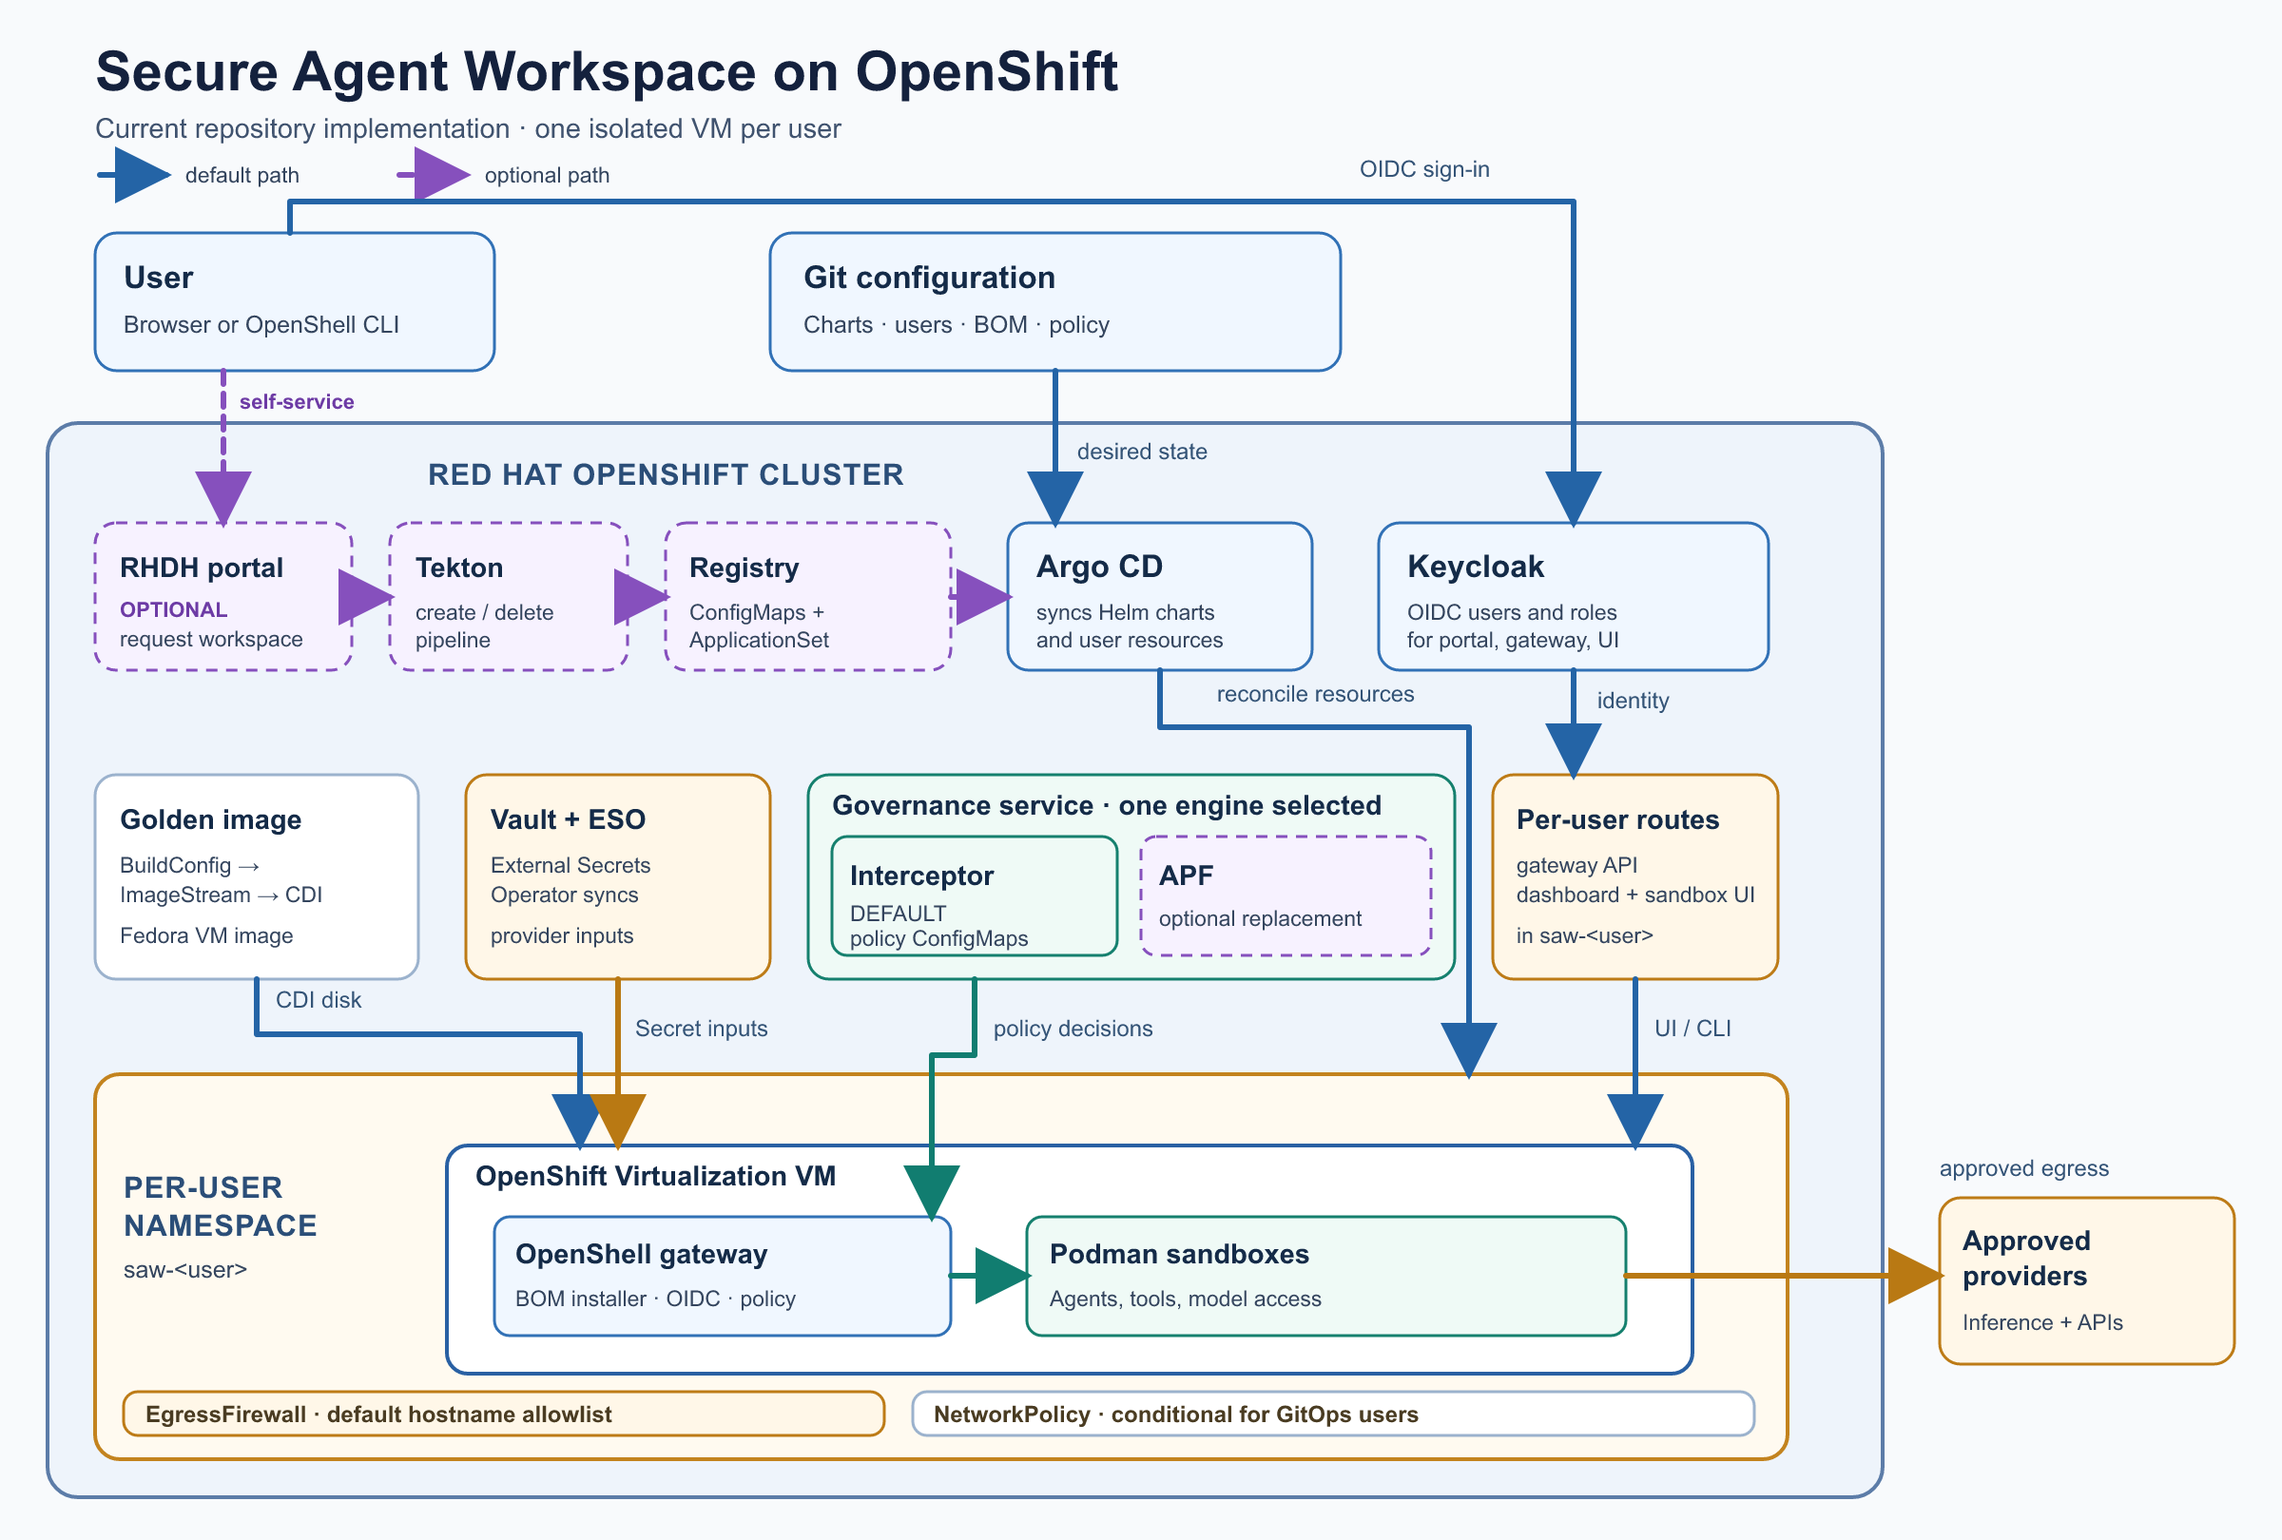
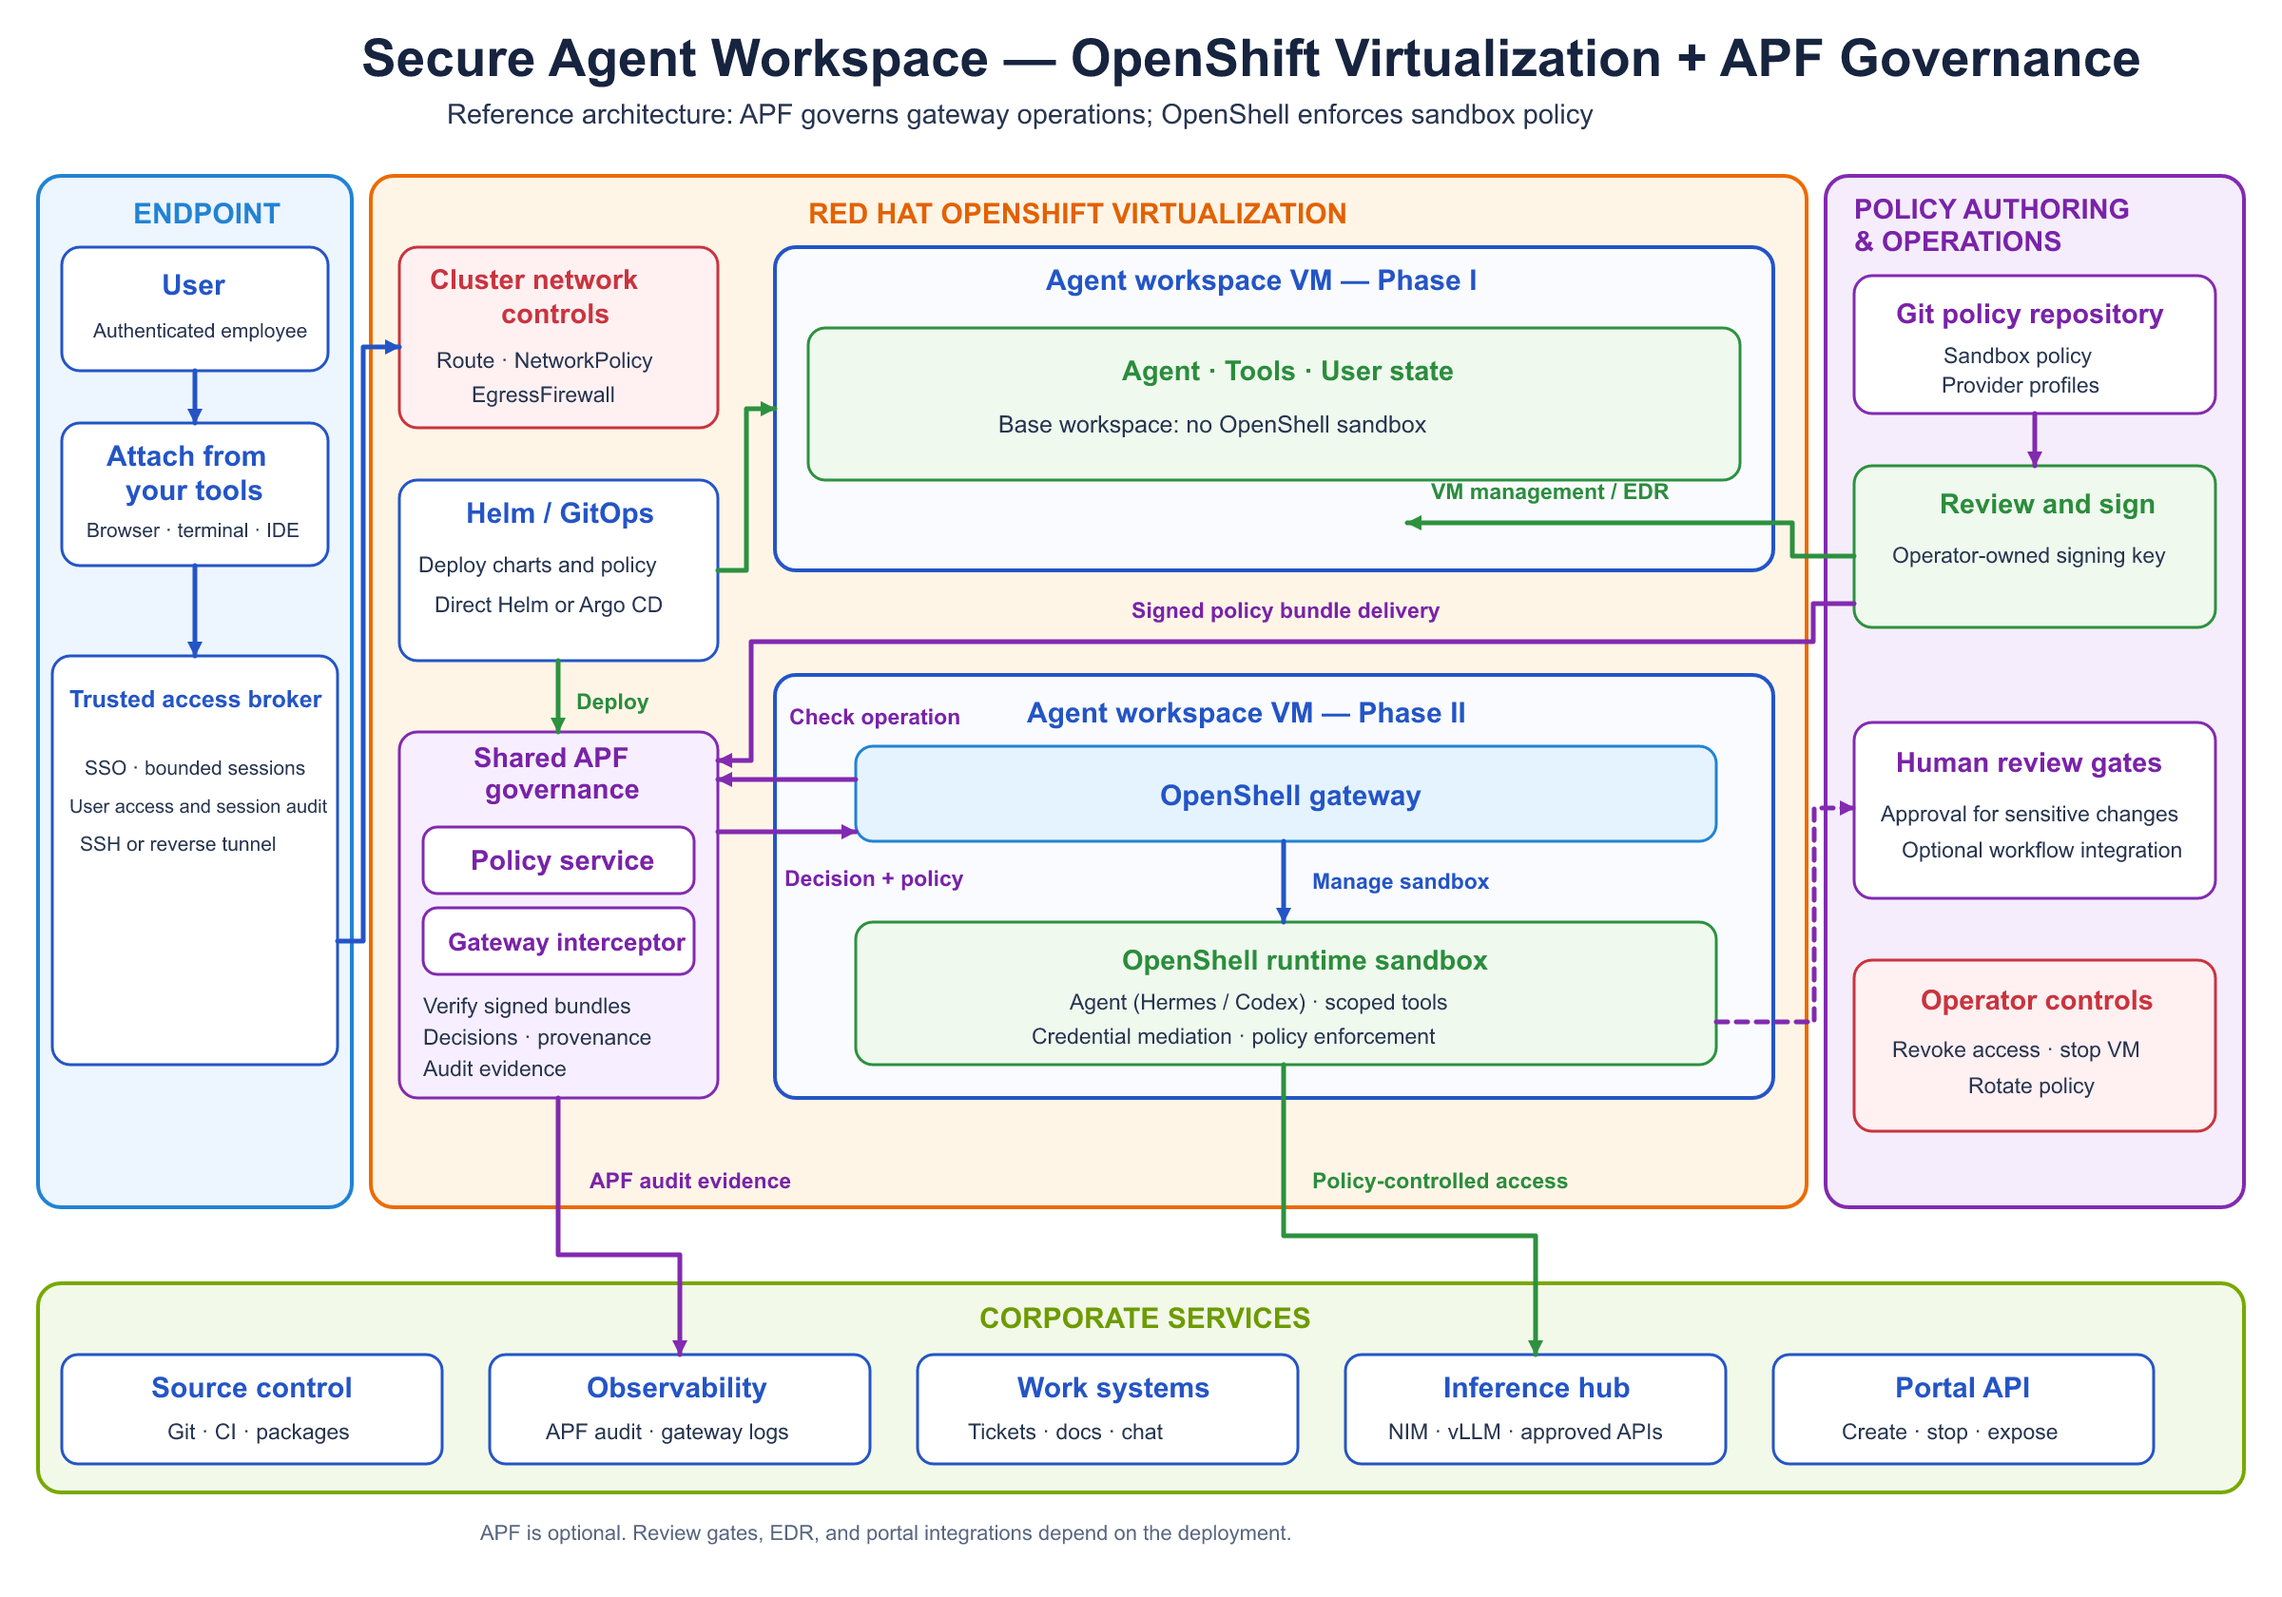
docs: replace APF reference diagram

diff --git a/README.md b/README.md
@@ -72,14 +72,15 @@ For a self-hosted OpenAI-compatible endpoint (vLLM, Ollama, ...), see [Custom in
 
 ### Architecture diagrams
 
-The first diagram shows this repository's current implementation. Solid arrows
-show the default path. Dashed arrows show optional paths. The two diagrams that
-follow illustrate the [NVIDIA Secure Agent Workspace OpenShift Virtualization
-reference design](https://docs.nvidia.com/enterprise-reference-architectures/secure-agent-workspace-reference-design/latest/openshift-virtualization-reference-implementation.html).
+The first diagram shows an OpenShift Virtualization and APF governance reference
+architecture. It shows conceptual Phase I and Phase II workspaces. APF is an
+optional governance engine in this repository; the OpenShell governance
+interceptor is the default. The two diagrams that follow also illustrate the
+[NVIDIA Secure Agent Workspace OpenShift Virtualization reference design](https://docs.nvidia.com/enterprise-reference-architectures/secure-agent-workspace-reference-design/latest/openshift-virtualization-reference-implementation.html).
 
-#### Current implementation architecture
+#### OpenShift Virtualization and APF reference architecture
 
-![Current Secure Agent Workspace implementation on OpenShift, with optional RHDH and APF paths](docs/images/openshift-reference-shape.svg)
+![Reference architecture with an endpoint, Phase I and Phase II workspace VMs, APF governance, and corporate services](docs/images/openshift-reference-shape.png)
 
 #### Reference design: GitOps policy model
 
